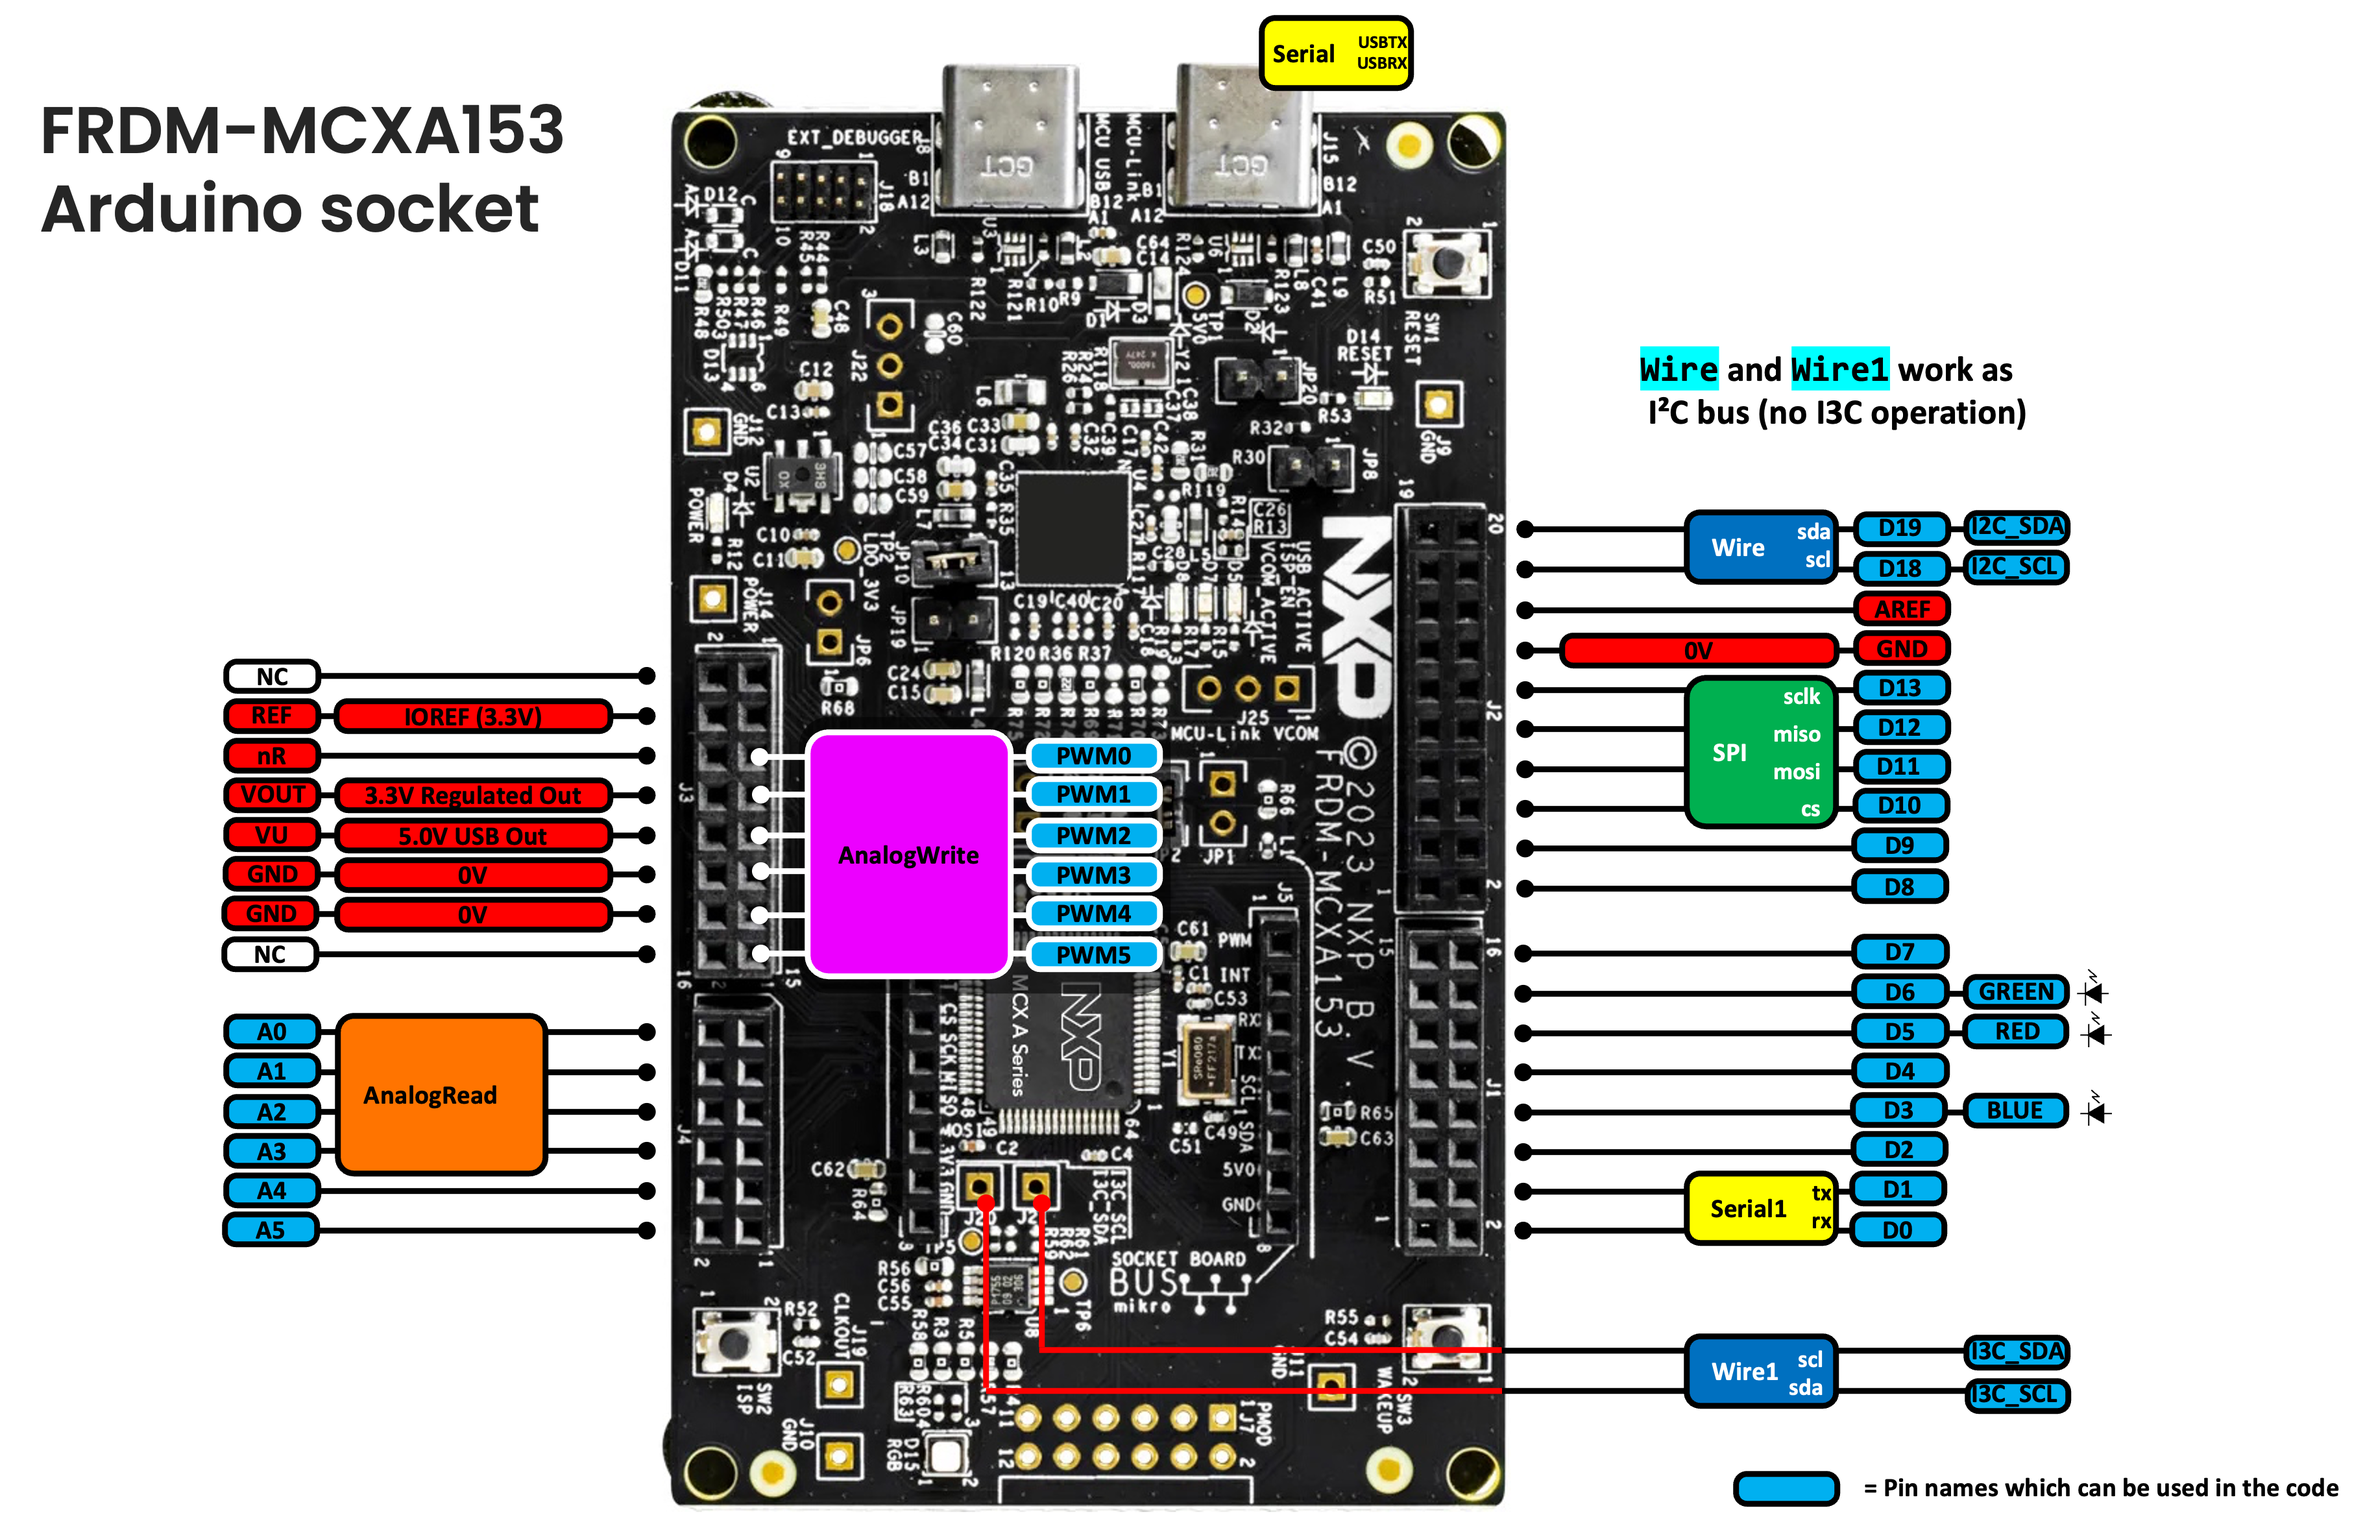
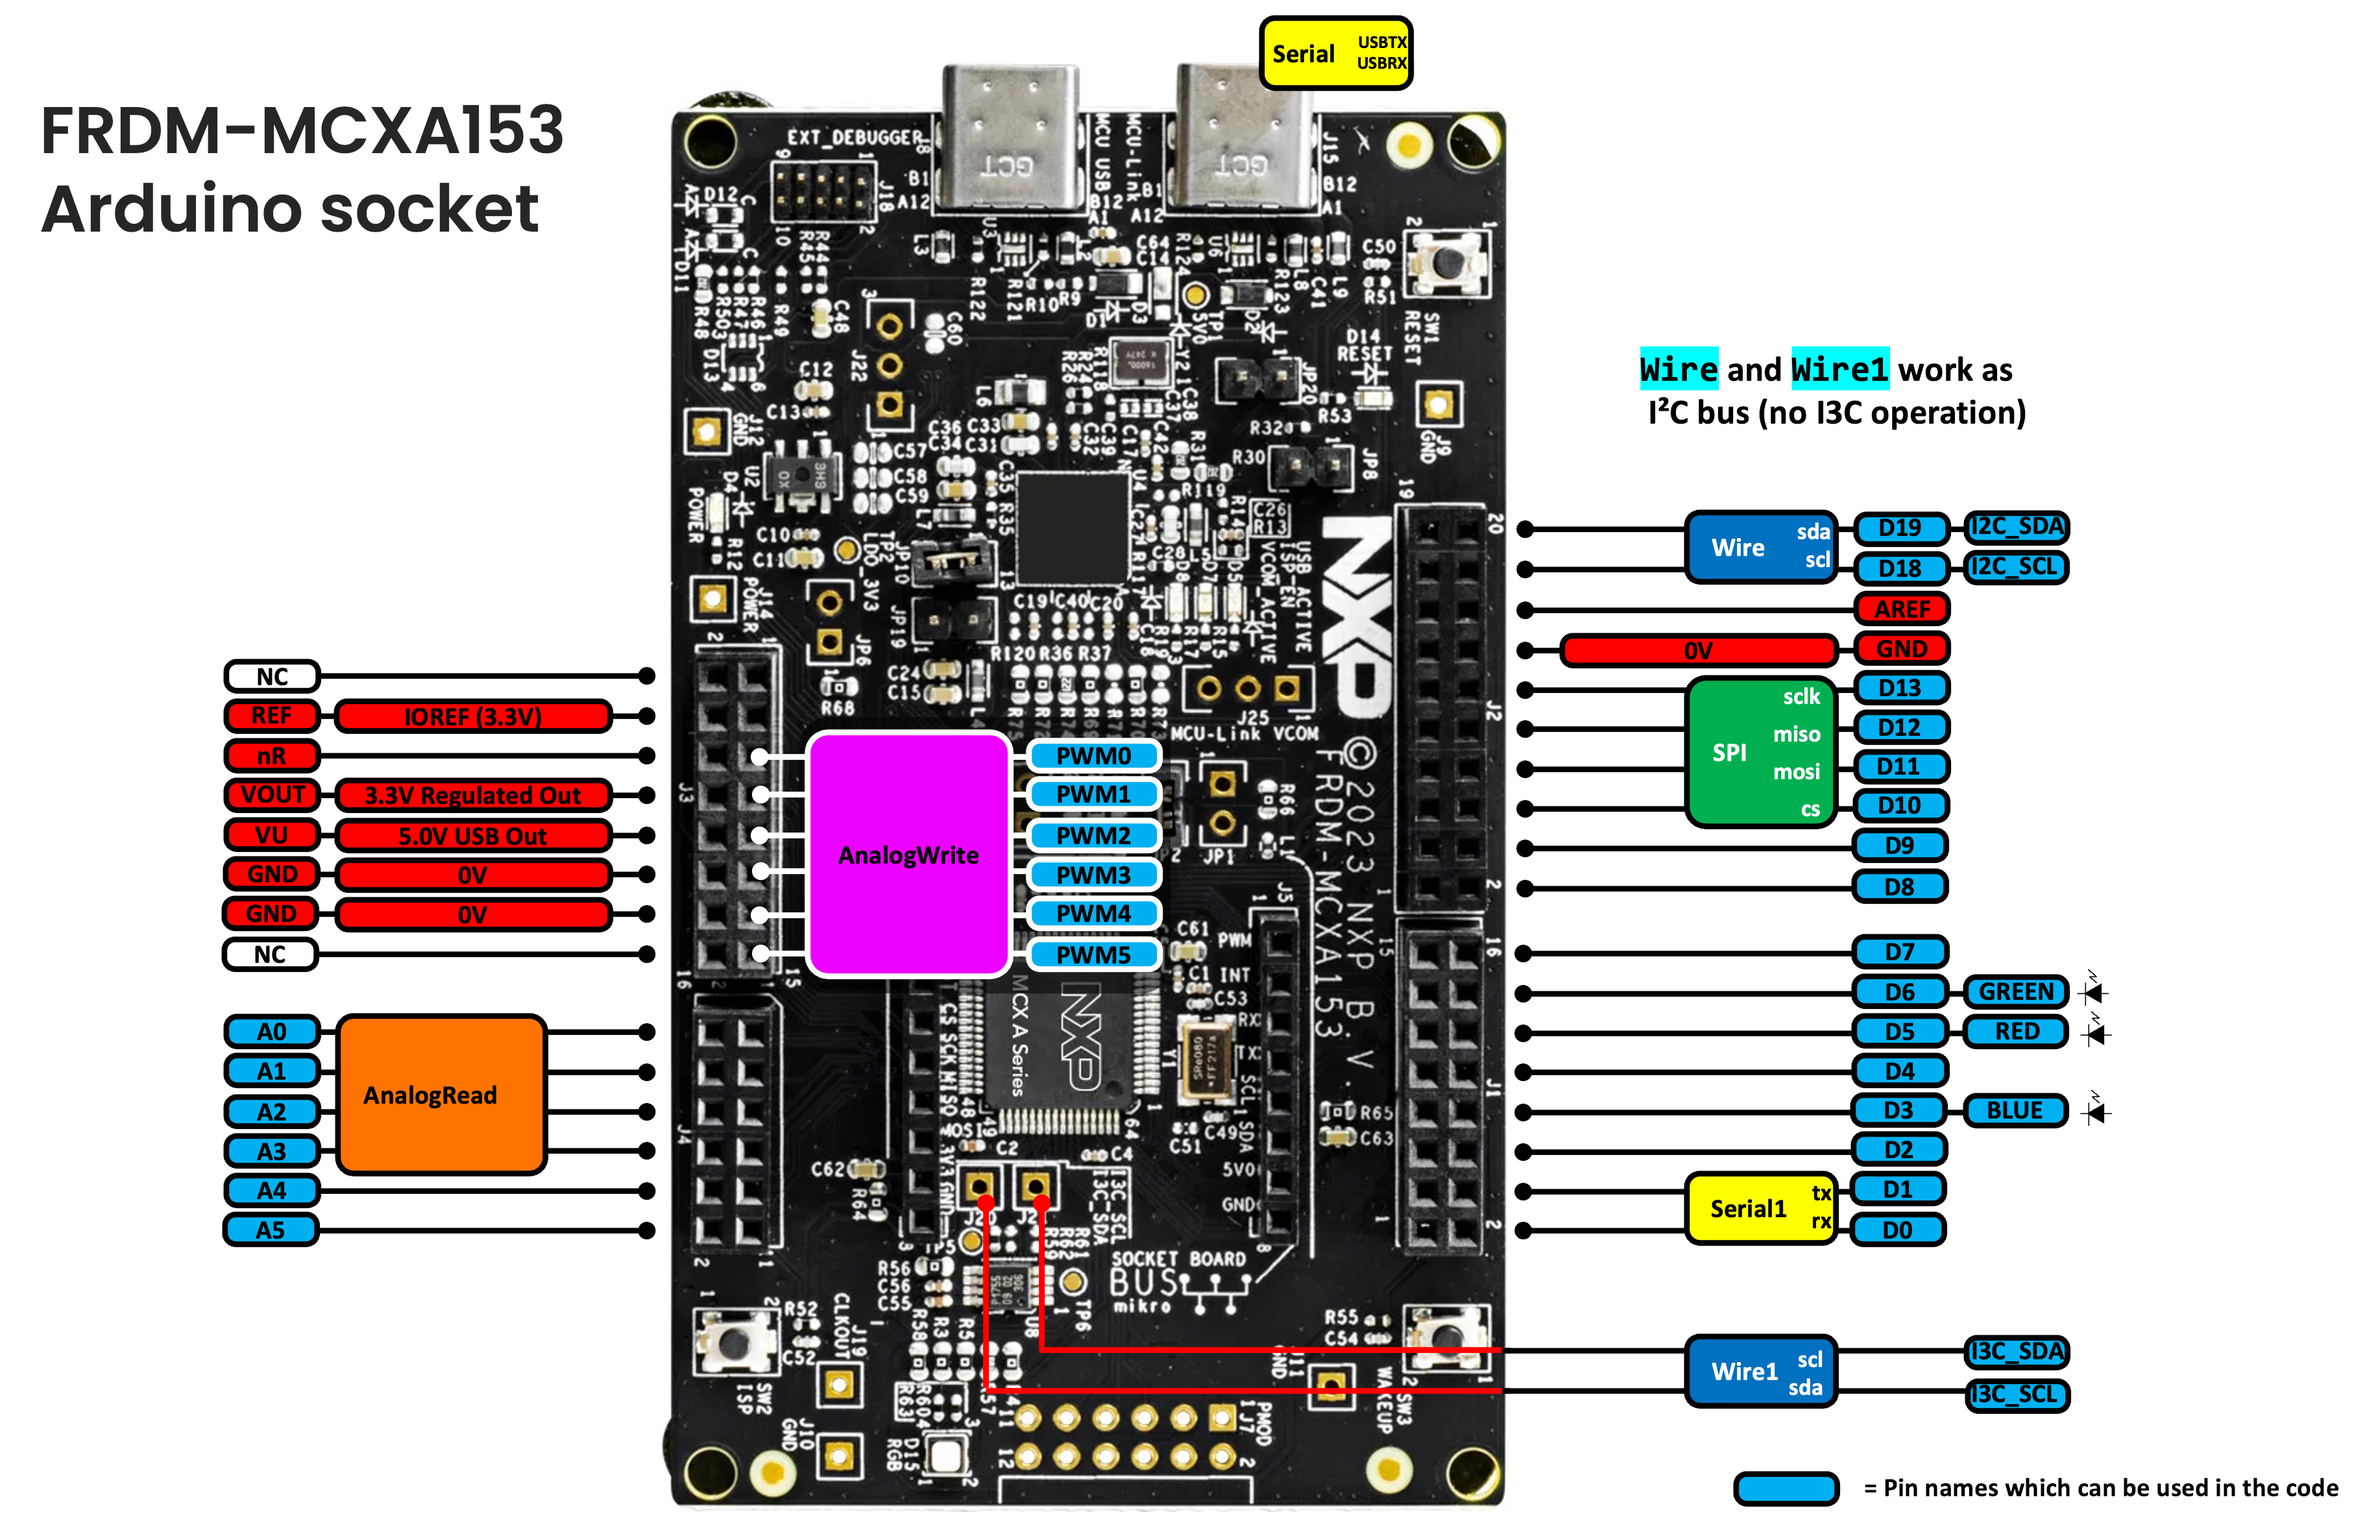
tutorial updates

diff --git a/TUTORIAL.ja.md b/TUTORIAL.ja.md
@@ -77,11 +77,13 @@ English version → [TUTORIAL.md](TUTORIAL.md)
    ```
    https://raw.githubusercontent.com/teddokano/mcx-arduino-core/main/package_nxp_mcx_index.json
    ```
+   ![additional_boards_manager_urls.png](img/additional_boards_manager_urls.png)
 3. **Tools → Board → Boards Manager**で`NXP MCX`を検索し**Install**
    — このとき初回はARM GCCツールチェーン（数百MB）も一緒にダウンロードされ、
    回線速度によっては数分かかります。Boards Managerウィンドウ下部の
    プログレスバーが進んでいれば、フリーズしているわけではなく
    ダウンロード中なので待ってください
+   ![install](img/install.png)
 4. **Tools → Board**で**FRDM-MCXA153 (mcx-arduino-core)**を選択
 5. ボードを**MCU-Link USB（J15）**コネクタに接続し、**Tools → Port**でポートを選択
 
@@ -96,6 +98,8 @@ English version → [TUTORIAL.md](TUTORIAL.md)
 | ✔（チェックマーク） | **Verify（検証）** — 書き込みせずにコンパイルのみ行う。エラーを素早く確認するのに便利 |
 | →（右向き矢印） | **Upload（アップロード）** — コンパイル**して**ボードへ書き込む（LinkServer経由、MCU-Link USBコネクタ越し） |
 | 🔍（虫眼鏡アイコン、右上） | **Serial Monitor（シリアルモニタ）** — スケッチが`Serial.print`/`println`で送った内容を表示するパネルを開く |
+
+![buttons](img/buttons.png)
 
 コンパイルエラーやアップロードのログは、ウィンドウ下部の黒い出力ペインに表示されます — アップロードに失敗したら、まずここを確認してください。
 

diff --git a/TUTORIAL.md b/TUTORIAL.md
@@ -95,11 +95,13 @@ package doesn't use for anything in this tutorial.
    ```
    https://raw.githubusercontent.com/teddokano/mcx-arduino-core/main/package_nxp_mcx_index.json
    ```
+   ![additional_boards_manager_urls.png](img/additional_boards_manager_urls.png)
 3. **Tools → Board → Boards Manager**, search `NXP MCX`, click **Install**
    — this also downloads the ARM GCC toolchain (a few hundred MB) the
    first time, which can take several minutes depending on your
    connection. Watch the progress bar at the bottom of the Boards Manager
    window; it isn't frozen, just downloading
+    ![install](img/install.png)
 4. **Tools → Board**, select **FRDM-MCXA153 (mcx-arduino-core)**
 5. Plug the board into the **MCU-Link USB (J15)** connector and select its
    port under **Tools → Port**
